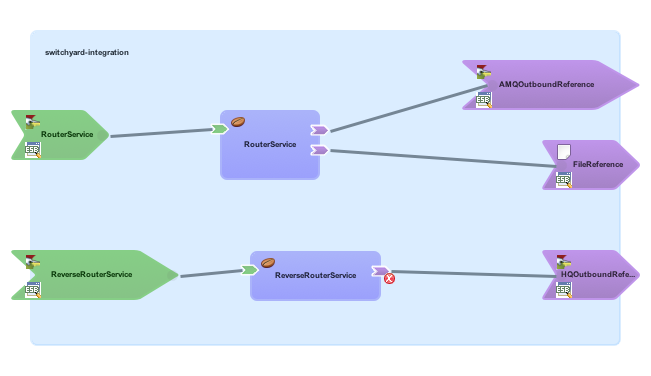
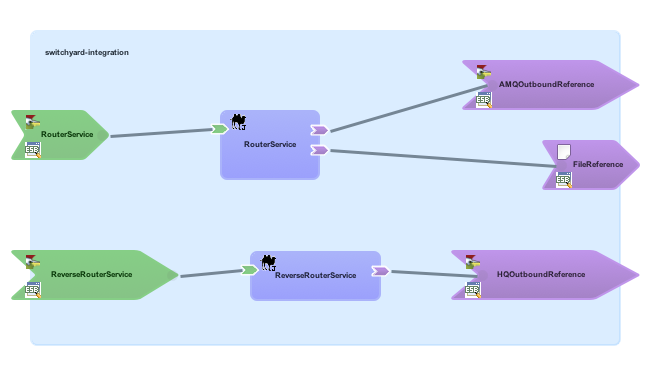
Camel (Java) Component

diff --git a/src/main/java/cz/chalupa/switchyardintegration/RouterServiceRoute.java b/src/main/java/cz/chalupa/switchyardintegration/RouterServiceRoute.java
@@ -1,0 +1,13 @@
+package cz.chalupa.switchyardintegration;
+
+import org.apache.camel.builder.RouteBuilder;
+
+public class RouterServiceRoute extends RouteBuilder {
+
+	public void configure() {
+		from("switchyard://RouterService")
+				.log("Received message for 'RouterService' : ${body}")
+				.to("switchyard://AMQOutboundReference")
+				.to("switchyard://FileReference");
+	}
+}

diff --git a/src/main/java/cz/chalupa/switchyardintegration/ReverseRouterServiceRoute.java b/src/main/java/cz/chalupa/switchyardintegration/ReverseRouterServiceRoute.java
@@ -1,0 +1,12 @@
+package cz.chalupa.switchyardintegration;
+
+import org.apache.camel.builder.RouteBuilder;
+
+public class ReverseRouterServiceRoute extends RouteBuilder {
+
+	public void configure() {
+		from("switchyard://ReverseRouterService")
+				.log("Received message for 'ReverseRouterService' : ${body}")
+				.to("switchyard://HQOutboundReference");
+	}
+}
